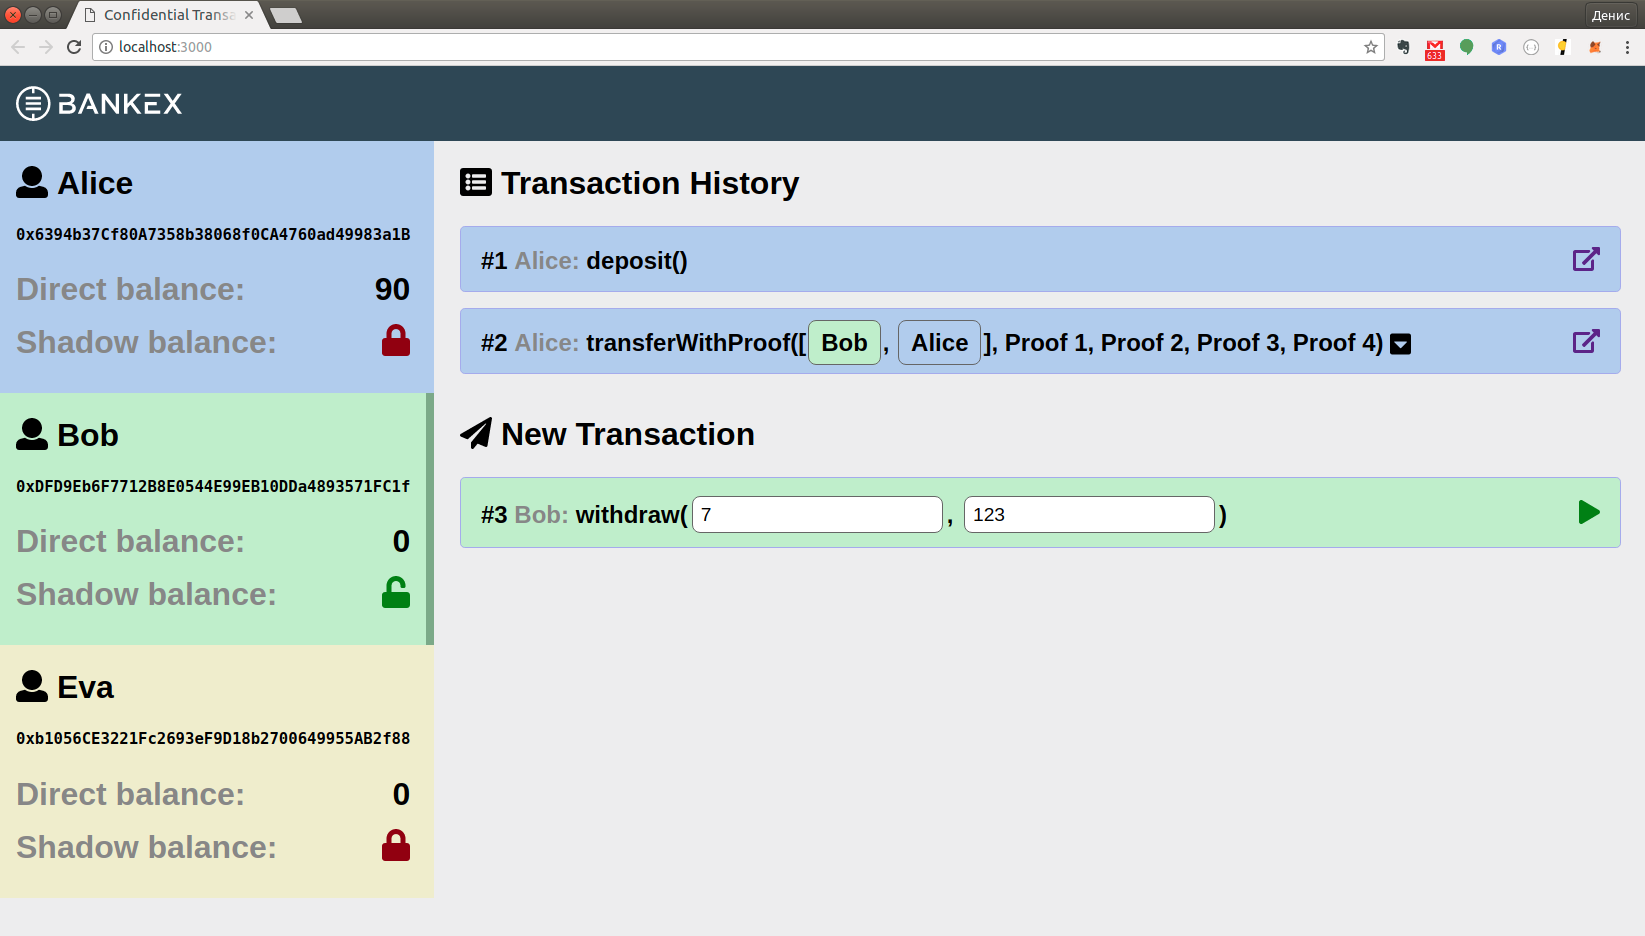
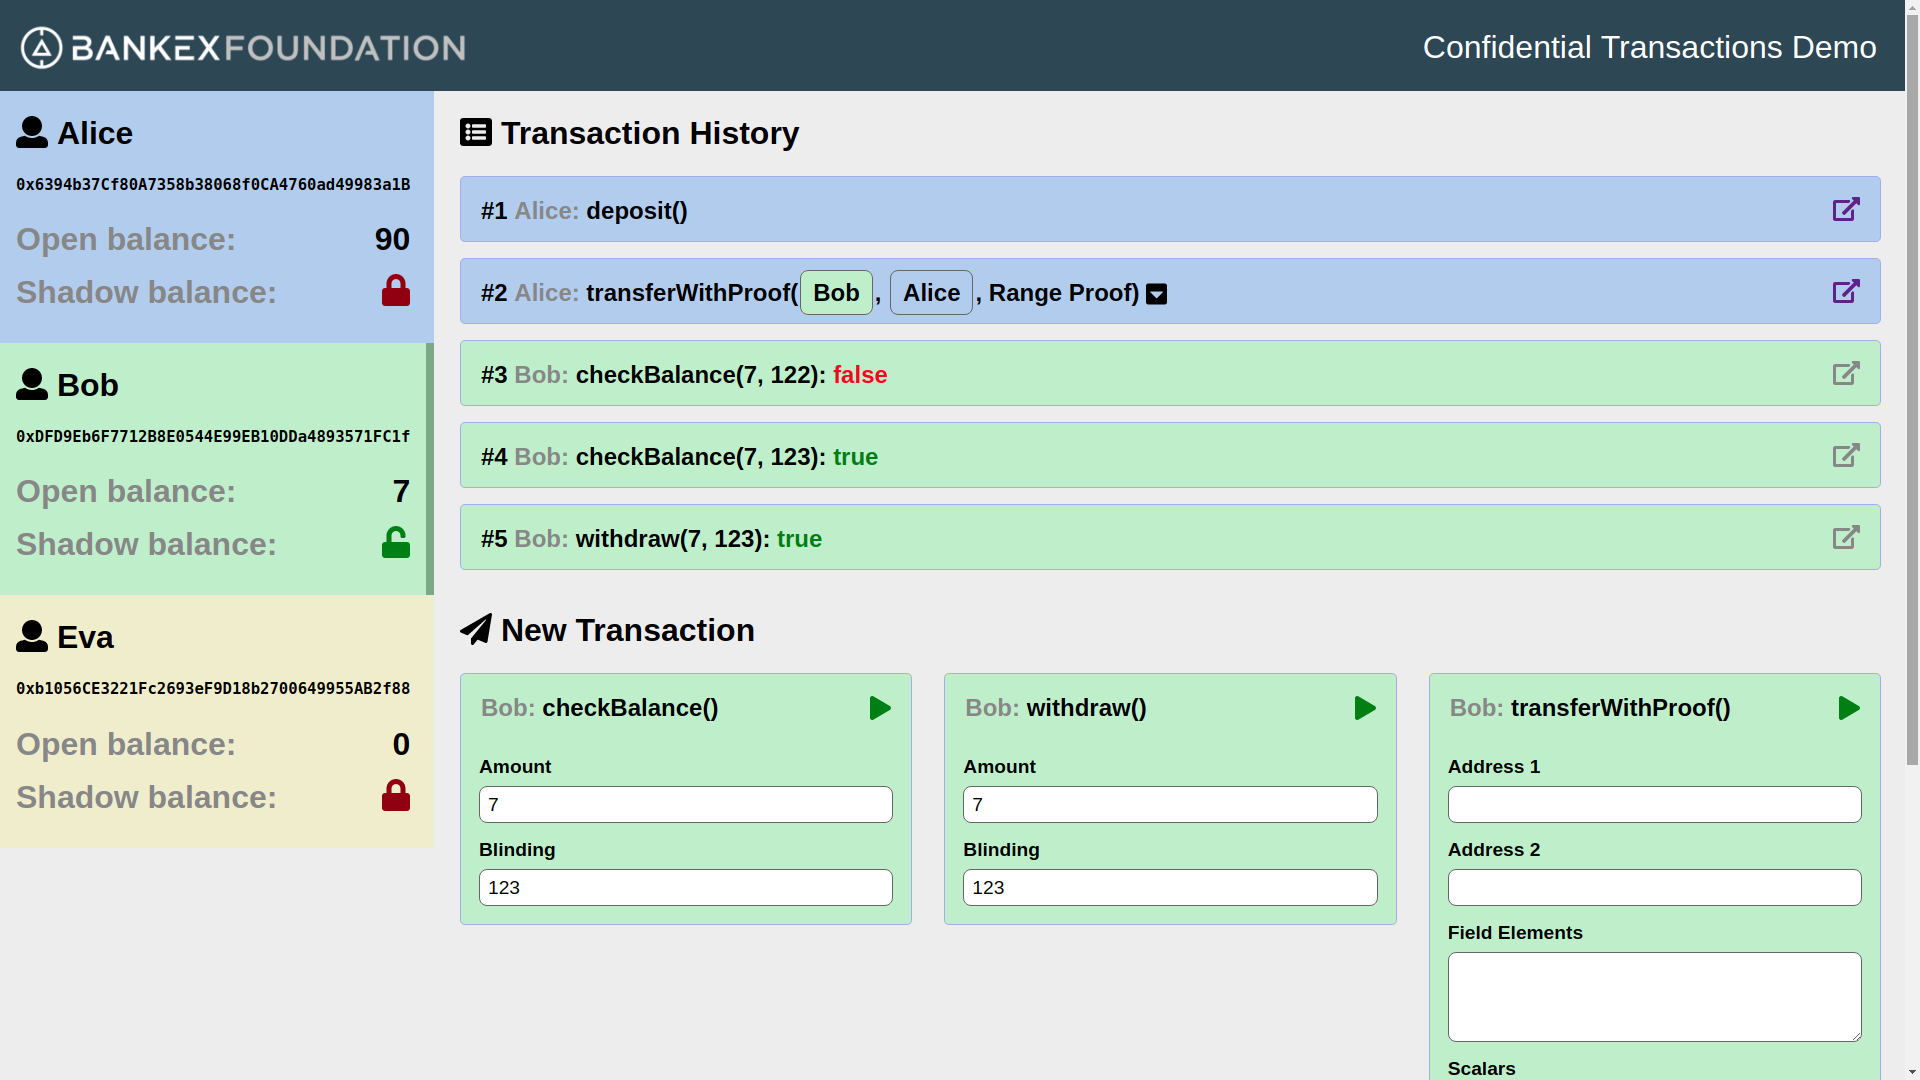
Ready to show

diff --git a/index.html b/index.html
@@ -7,26 +7,27 @@
 </head>
 <body>
 	<header class="top">
-		<img src="img/logo.svg">
+		<img src="img/bankex-foundation-logo-whte.png">
+		<span class="projectname">Confidential Transactions Demo</span>
 	</header>
 	<section class="content">
 		<aside>
 			<section class="account a-color" data-account="0x6394b37cf80a7358b38068f0ca4760ad49983a1b">
 				<header><i class="fas fa-user"></i> Alice</header>
 				<div class="address">0x6394b37Cf80A7358b38068f0CA4760ad49983a1B</div>
-				<div class="balance"><span class="text-muted">Direct balance:</span> <span class="direct-balance-value pull-right"><i class="fas fa-sync fa-spin text-muted"></i></span></div>
+				<div class="balance"><span class="text-muted">Open balance:</span> <span class="direct-balance-value pull-right"><i class="fas fa-sync fa-spin text-muted"></i></span></div>
 				<div class="balance"><span class="text-muted">Shadow balance:</span> <i class="fas fa-unlock pull-right"></i><i class="fas fa-lock pull-right"></i></div>
 			</section>
 			<section class="account b-color" data-account="0xdfd9eb6f7712b8e0544e99eb10dda4893571fc1f">
 				<header><i class="fas fa-user"></i> Bob</header>
 				<div class="address">0xDFD9Eb6F7712B8E0544E99EB10DDa4893571FC1f</div>
-				<div class="balance"><span class="text-muted">Direct balance:</span> <span class="direct-balance-value pull-right"><i class="fas fa-sync fa-spin text-muted"></i></span></div>
+				<div class="balance"><span class="text-muted">Open balance:</span> <span class="direct-balance-value pull-right"><i class="fas fa-sync fa-spin text-muted"></i></span></div>
 				<div class="balance"><span class="text-muted">Shadow balance:</span>  <i class="fas fa-unlock pull-right"></i><i class="fas fa-lock pull-right"></i></div>
 			</section>
 			<section class="account c-color" data-account="0xb1056ce3221fc2693ef9d18b2700649955ab2f88">
 				<header><i class="fas fa-user"></i> Eva</header>
 				<div class="address">0xb1056CE3221Fc2693eF9D18b2700649955AB2f88</div>
-				<div class="balance"><span class="text-muted">Direct balance:</span> <span class="direct-balance-value pull-right"><i class="fas fa-sync fa-spin text-muted"></i></span></div>
+				<div class="balance"><span class="text-muted">Open balance:</span> <span class="direct-balance-value pull-right"><i class="fas fa-sync fa-spin text-muted"></i></span></div>
 				<div class="balance"><span class="text-muted">Shadow balance:</span> <i class="fas fa-unlock pull-right"></i><i class="fas fa-lock pull-right"></i></div>
 			</section>
 		</aside>
@@ -37,11 +38,11 @@
 					<h2>#1 <span class="text-muted">Alice:</span> deposit() <a href="https://rinkeby.etherscan.io/tx/0x15d7a99bb20cb585d9dd103aac461b2435ea491912437292bf599cf25b0a932d" target="_blank"><i class="fas fa-external-link-alt pull-right"></i></a></h2>
 				</div>
 				<div class="transaction a-color">
-					<h2>#2 <span class="text-muted">Alice:</span> transferWithProof([<span class="badge b-color">Bob</span>, <span class="badge a-color">Alice</span>], Proof 1, Proof 2, Proof 3, Proof 4) <i style="position: relative; top: 2px; margin-right: 0.7rem;" onclick="$(this).parent().next().toggle();" class="fas fa-caret-square-down"></i> <a href="https://rinkeby.etherscan.io/tx/0x7f7fd552d345a583a1d345a3e0427fcb18dccf4a6c0a2b008756d81042558155" target="_blank"><i class="fas fa-external-link-alt pull-right"></i></a></h2>
+					<h2>#2 <span class="text-muted">Alice:</span> transferWithProof(<span class="badge b-color">Bob</span>, <span class="badge a-color">Alice</span>, Range Proof) <i style="position: relative; top: 2px; margin-right: 0.7rem;" onclick="$(this).parent().next().toggle();" class="fas fa-caret-square-down"></i> <a href="https://rinkeby.etherscan.io/tx/0x7f7fd552d345a583a1d345a3e0427fcb18dccf4a6c0a2b008756d81042558155" target="_blank"><i class="fas fa-external-link-alt pull-right"></i></a></h2>
 					<div class="tx-details" style="display: none;">
-						<h3>Address 1, Address 2</h3>
+						<h3>Address 1 and Address 2</h3>
 						["0xDFD9Eb6F7712B8E0544E99EB10DDa4893571FC1f", "0x6394b37Cf80A7358b38068f0CA4760ad49983a1B"]
-						<h3>Proof 1</h3>
+						<h3>Field Elements</h3>
[3 lines of base64/hex data omitted]
@@ -63,7 +64,7 @@
[2 lines of base64/hex data omitted]
 						]
-						<h3>Proof 2</h3>
+						<h3>Scalars</h3>
[3 lines of base64/hex data omitted]
@@ -75,7 +76,7 @@
[2 lines of base64/hex data omitted]
 						]
-						<h3>Proof 3</h3>
+						<h3>Ls</h3>
[3 lines of base64/hex data omitted]
@@ -85,7 +86,7 @@
[2 lines of base64/hex data omitted]
 						]
-						<h3>Proof 4</h3>
+						<h3>Rs</h3>
[3 lines of base64/hex data omitted]
@@ -103,9 +104,66 @@
 			<br>
 			<div id="new-tx">
 				<header><i class="fas fa-paper-plane" ></i> New Transaction</header>
-				<section>
-					<div class="transaction b-color">
-						<h2>#3 <span class="text-muted">Bob:</span> withdraw(<input type="text" name="value" value="7">, <input type="text" name="secret" value="123">) <span id="btn-initiate-tx"><i style="position: relative; top: 2px; color: green;" class="fas fa-play pull-right"></i></span></h2>
+				<section class="row">
+					<div class="col">
+						<div class="transaction b-color">
+							<h2><span class="text-muted">Bob:</span> checkBalance() <span id="btn-initiate-check-tx"><i style="position: relative; top: 2px; color: green;" class="fas fa-play pull-right"></i></span></h2>
+							<br>
+							<div class="param">
+								<div class="label">Amount</div>
+								<div class="input"><input class="input" type="text" name="amount" value=""></div>
+							</div>
+							<div class="param">
+								<div class="label">Blinding</div>
+								<div class="input"><input class="input" type="text" name="secret" value=""></div>
+							</div>
+						</div>
+					</div>
+					<div class="spacer"></div>
+					<div class="col">
+						<div class="transaction b-color">
+							<h2><span class="text-muted">Bob:</span> withdraw() <span id="btn-initiate-withdraw-tx"><i style="position: relative; top: 2px; color: green;" class="fas fa-play pull-right"></i></span></h2>
+							<br>
+							<div class="param">
+								<div class="label">Amount</div>
+								<div class="input"><input class="input" type="text" name="amount" value=""></div>
+							</div>
+							<div class="param">
+								<div class="label">Blinding</div>
+								<div class="input"><input class="input" type="text" name="secret" value=""></div>
+							</div>
+						</div>
+					</div>
+					<div class="spacer"></div>
+					<div class="col">
+						<div class="transaction b-color">
+							<h2><span class="text-muted">Bob:</span> transferWithProof() <span id="btn-initiate-transfer-tx"><i style="position: relative; top: 2px; color: green;" class="fas fa-play pull-right"></i></span></h2>
+							<br>
+							<div class="param">
+								<div class="label">Address 1</div>
+								<div class="input"><input class="input" type="text" name="address-1" value=""></div>
+							</div>
+							<div class="param">
+								<div class="label">Address 2</div>
+								<div class="input"><input class="input" type="text" name="address-2" value=""></div>
+							</div>
+							<div class="param">
+								<div class="label">Field Elements</div>
+								<div class="input"><textarea rows="4" class="input" type="text" name="fe" value=""></textarea></div>
+							</div>
+							<div class="param">
+								<div class="label">Scalars</div>
+								<div class="input"><textarea rows="4" class="input" type="text" name="sc" value=""></textarea></div>
+							</div>
+							<div class="param">
+								<div class="label">Ls</div>
+								<div class="input"><textarea rows="4" class="input" type="text" name="ls" value=""></textarea></div>
+							</div>
+							<div class="param">
+								<div class="label">Rs</div>
+								<div class="input"><textarea rows="4" class="input" type="text" name="rs" value=""></textarea></div>
+							</div>
+						</div>
 					</div>
 				</section>
 			</div>
@@ -132,40 +190,35 @@
 				});
 			});
 
-			$("#btn-initiate-tx").click(function () {
-				var valueString = $(this).parent().find("input[name='value']").val();
-				var secretString = $(this).parent().find("input[name='secret']").val();
+			$("#btn-initiate-check-tx").click(function () {
+				var amountString = $(this).parent().parent().find("input[name='amount']").val();
+				var secretString = $(this).parent().parent().find("input[name='secret']").val();
 
-				var value = new window.web3.BigNumber('7');
-				var secret = new window.web3.BigNumber('123');
+				var amount = new window.web3.BigNumber(amountString);
+				var secret = new window.web3.BigNumber(secretString);
 
-				window.zkContractInstance.withdraw(value, secret, function (err, res) {
-					console.log(err, res);
+				window.zkContractInstance.withdraw.call(amount, secret, function (err, res) {
+					if (!err) {
+						result = res ? "<span class='green-color'>true</span>" : "<span class='red-color'>false</span>";
 
-					if (!err && res === true) {
-						$("#withdrawal-transaction").show();
-						$("#new-tx").hide();
+						addTx("checkBalance(" + amountString + ", " + secretString + ")", result, 20);
+					}
+				});
+			});
 
-						setTimeout(function () {
-							$("#withdrawal-transaction").find(".fa-spin").removeClass("fa-sync").removeClass("fa-spin").addClass("fa-external-link-alt");
+			$("#btn-initiate-withdraw-tx").click(function () {
+				var amountString = $(this).parent().parent().find("input[name='amount']").val();
+				var secretString = $(this).parent().parent().find("input[name='secret']").val();
 
-							$("section.account[data-account='0xdfd9eb6f7712b8e0544e99eb10dda4893571fc1f']").find(".direct-balance-value").text(7);
-						}, 3000);
+				var amount = new window.web3.BigNumber(amountString);
+				var secret = new window.web3.BigNumber(secretString);
 
-						// alert("ok");
-						// el.find(".direct-balance-value").text(balance);
-					} else {
-						// For demo purposes only. Real-world scenario - onSuccess
-						$("#withdrawal-transaction").show();
-						$("#new-tx").hide();
+				// For presentation purposes only. TODO: remove call in order to execute TX 
+				window.zkContractInstance.withdraw.call(amount, secret, function (err, res) {
+					if (!err) {
+						result = res ? "<span class='green-color'>true</span>" : "<span class='red-color'>false</span>";
 
-						setTimeout(function () {
-							$("#withdrawal-transaction").find(".fa-spin").removeClass("fa-sync").removeClass("fa-spin").addClass("fa-external-link-alt");
-
-							$("section.account[data-account='0xdfd9eb6f7712b8e0544e99eb10dda4893571fc1f']").find(".direct-balance-value").text(7);
-						}, 3000);
-
-						console.error(err);
+						addTx("withdraw(" + amountString + ", " + secretString + ")", result, 3000, 7);
 					}
 				});
 			});
@@ -176,6 +229,28 @@
 			
 			var activeAccount = $("section.account[data-account='" + account + "']");
 			activeAccount.addClass("active");
+		}
+
+		// Stub for demo: TODO: change to actual TX monitoring
+		
+		var txCount = 2;
+
+		function addTx(fn, result, timeout, newBaance) {
+			var accountInfo = { id: "b", name: "Bob", address: "0xdfd9eb6f7712b8e0544e99eb10dda4893571fc1f" };
+			txCount++;
+
+			var query = "<div class=\"transaction " + accountInfo.id + "-color\"><h2>#" + txCount + " <span class=\"text-muted\">" + accountInfo.name + ":</span> " + fn + "<span class='tx-result'></span> <i class=\"fas fa-sync fa-spin text-muted pull-right\"></i></h2></div>";
+			var el = $(query);
+
+			el.appendTo($("#tx-history"));
+
+			setTimeout(function () {
+				el.find(".fa-spin").removeClass("fa-sync").removeClass("fa-spin").addClass("fa-external-link-alt");
+				el.find(".tx-result").html(": " + result);
+
+				if (newBaance > 0)
+					$("section.account[data-account='" + accountInfo.address + "']").find(".direct-balance-value").text(newBaance);
+			}, timeout);
 		}
 	</script>
 </body>

diff --git a/css/styles.css b/css/styles.css
@@ -9,10 +9,20 @@ body {
 header.top {
 	background-color: #334455;
 	padding: 20px 16px 16px 16px;
+	display: flex;
+	align-items: center;
 }
 
 header.top img {
-	height: 35px;
+	height: 55px;
+}
+
+header.top .projectname {
+	color: white;
+	font-size: 2rem;
+	flex: 1;
+	text-align: right;
+	padding-right: 12px;
 }
 
 header h1 {
@@ -97,11 +107,36 @@ section.content section.main div.transaction .tx-details h3 {
 	font-size: 1rem;
 }
 
+div.transaction .param {
+	margin: 6px;
+}
+
+div.transaction .param .input {
+	display: flex;
+}
+
+div.transaction .param .label {
+	font-size: 1.2rem;
+	font-weight: bold;
+	margin: 16px 0 8px 0;
+}
+
 section.content header {
 	font-size: 2rem;
 	font-weight: bold;
 	margin-top: 0.5rem;
 	margin-bottom: 1.5rem;
+}
+
+.row {
+	margin-bottom: 12px;
+	display: flex;
+	flex-direction: row;
+	align-items: flex-start;
+}
+
+.row .col {
+	flex: 1;
 }
 
 .a-color {
@@ -154,13 +189,31 @@ section.content header {
 	color: #888888;
 }
 
-input[type="text"] {
-	position: relative;
+.green-color {
+	color: green;
+}
+
+.red-color {
+	color: red;
+}
+
+.spacer {
+	width: 32px;
+	height: 32px;
+}
+
+input[type="text"], textarea {
 	font-size: 1.2rem;
 	padding: 0px 8px 0px 8px;
-	top: -2px;
-	height: 35px;
-	margin: 0 4px 0 4px;
 	border-radius: 8px;
 	border: 1px solid #666666;
+	flex: 1;
+}
+
+input[type="text"] {
+	height: 35px;
+}
+
+textarea {
+	padding: 8px;
 }
